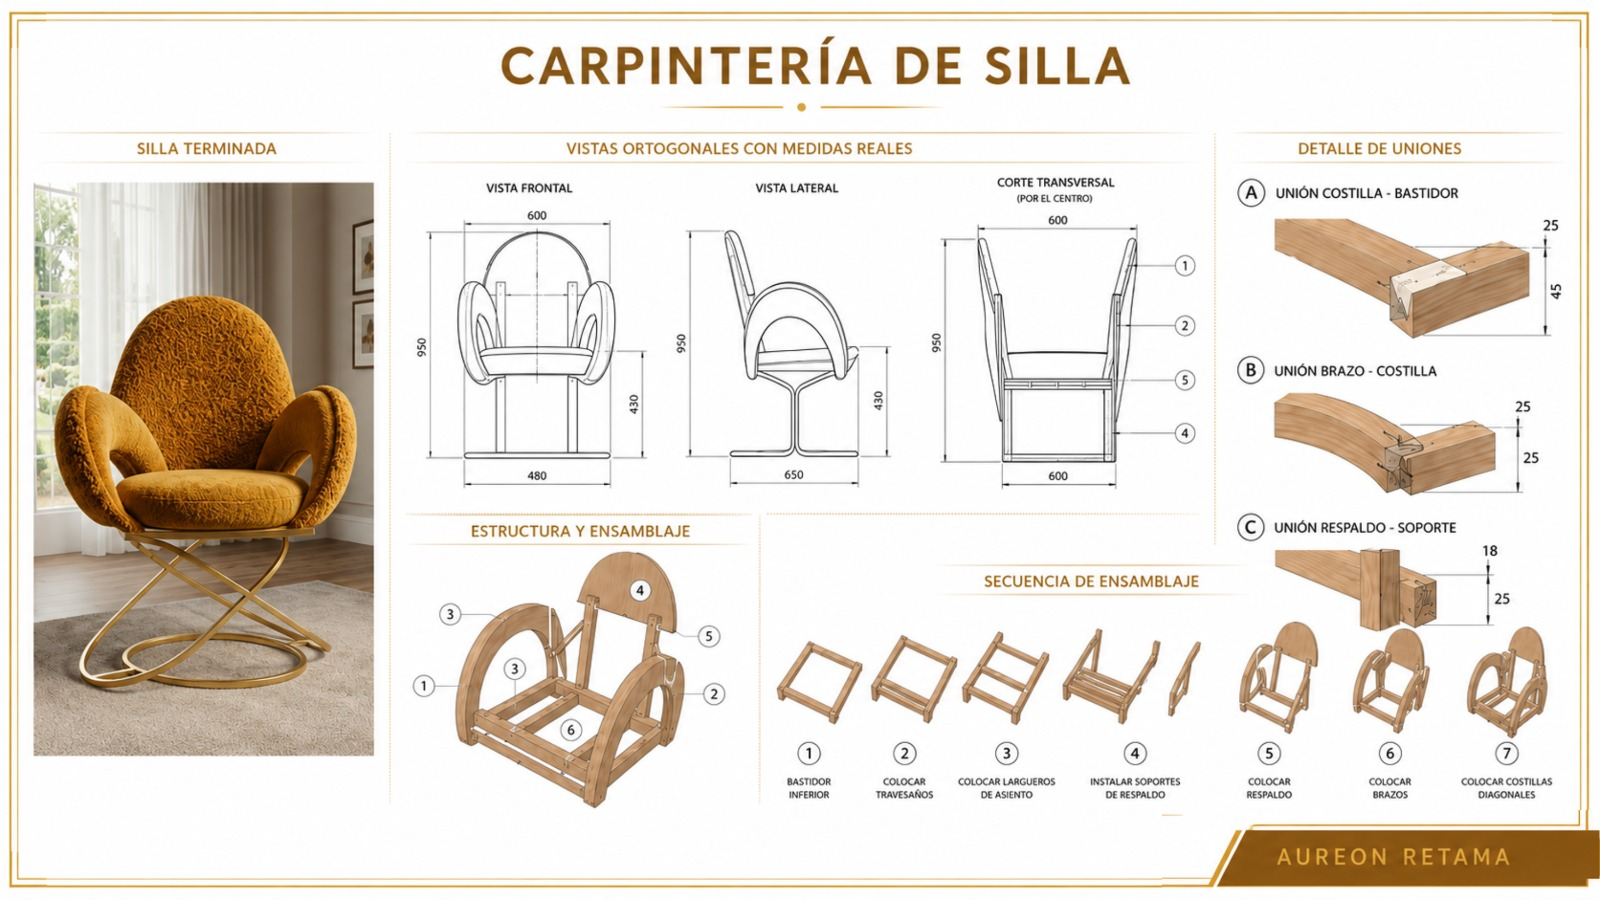
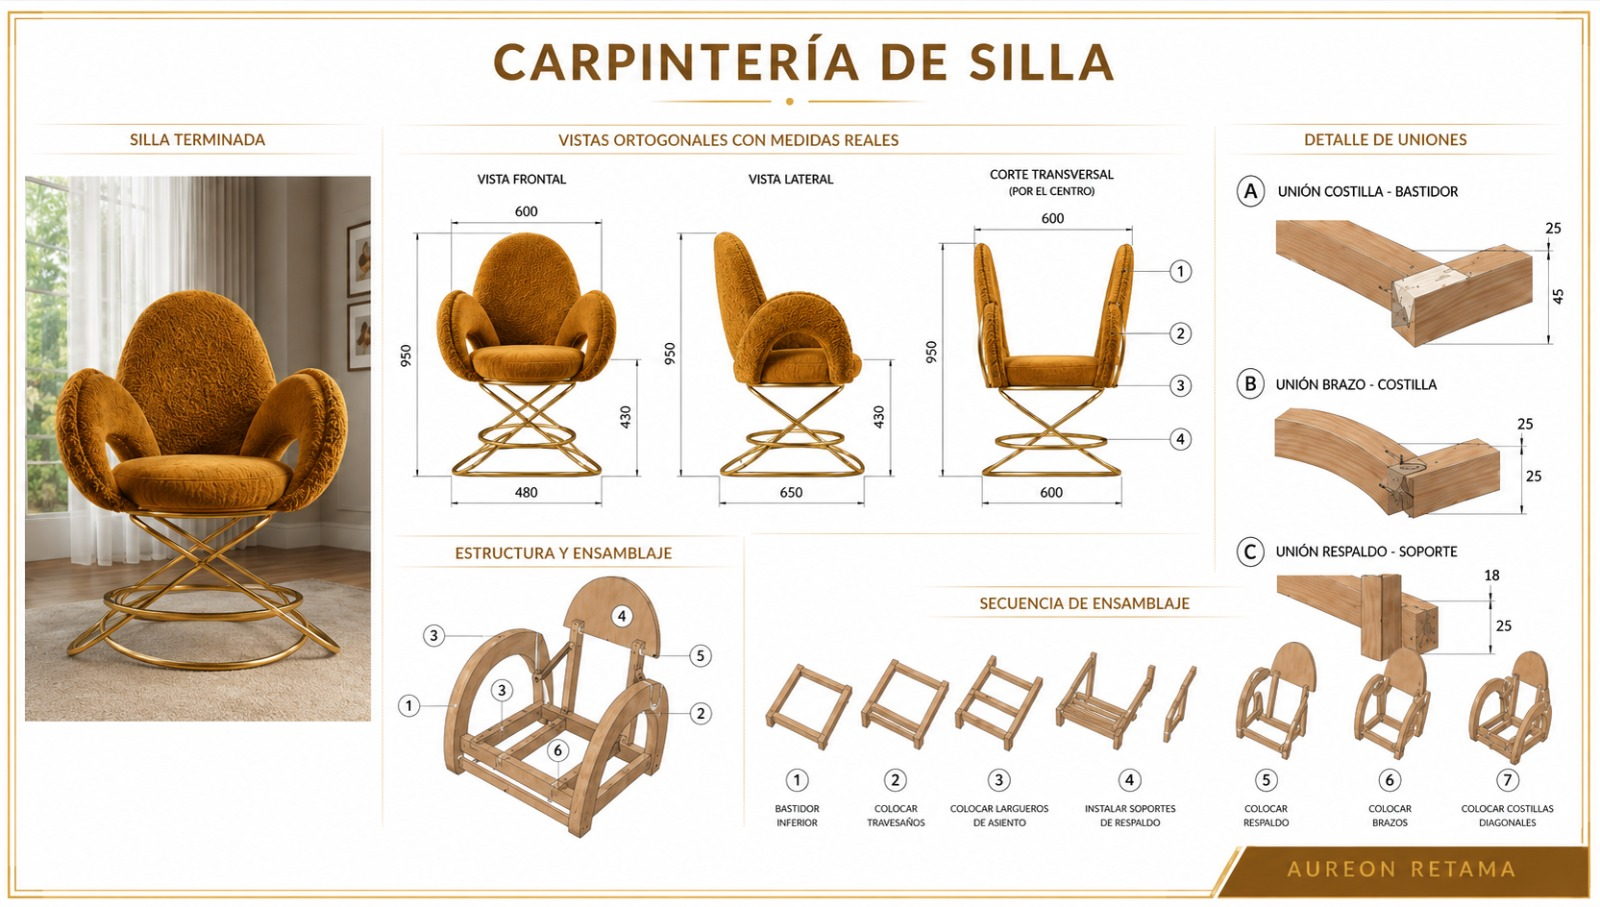
Add new assets: portada_2, silla, and extra silla-detalle images to their respective sections

Changed region(s): [[0.0, 0.0, 1.0, 0.9956], [0.75, 0.1244, 0.9375, 0.2489], [0.5938, 0.6222, 0.75, 0.6844]]

diff --git a/src/App.jsx b/src/App.jsx
@@ -37,6 +37,13 @@ import ambiente2Img from './assets/silla-detalle-2.jpeg';
 import ambiente3Img from './assets/silla-detalle-3.jpeg';
 import ambiente4Img from './assets/silla-detalle-4.jpeg';
 import ambiente5Img from './assets/silla-detalle-5.jpeg';
+import ambiente6Img from './assets/silla-detalle-6.jpeg';
+import ambiente7Img from './assets/silla-detalle-7.jpeg';
+import ambiente8Img from './assets/silla-detalle-8.jpeg';
+import ambiente9Img from './assets/silla-detalle-9.jpeg';
+
+import portada2Img from './assets/portada_2.jpeg';
+import sillaImg from './assets/silla.jpeg';
 import finalImg from './assets/final.jpg';
 import reflexionImg from './assets/reflexion.jpg';
 
@@ -174,6 +181,8 @@ function App() {
         
         <FadeIn><img src={bocetosImg} alt="Bocetos" className="slide-img slide-img-premium grayscale-img" /></FadeIn>
         
+        <FadeIn><img src={sillaImg} alt="Silla" className="slide-img-premium mt-50" style={{width: '100%', maxWidth: '800px', margin: '0 auto', display: 'block'}} /></FadeIn>
+        
         <div className="grid-2-cols mt-50">
           <FadeIn delay={0.1}><img src={maquetaFrente} alt="Vista Frontal" className="slide-img-premium" style={{width: '100%'}} /></FadeIn>
           <FadeIn delay={0.2}><img src={maquetaDetras} alt="Vista Posterior" className="slide-img-premium" style={{width: '100%'}} /></FadeIn>
@@ -260,16 +269,23 @@ function App() {
             modules={[EffectCoverflow, Autoplay, Pagination]}
             className="coverflow-swiper mt-50"
           >
-            <SwiperSlide><img src={ambiente1Img} alt="Ambiente 1" /></SwiperSlide>
-            <SwiperSlide><img src={ambiente2Img} alt="Ambiente 2" /></SwiperSlide>
-            <SwiperSlide><img src={ambiente3Img} alt="Ambiente 3" /></SwiperSlide>
-            <SwiperSlide><img src={ambiente4Img} alt="Ambiente 4" /></SwiperSlide>
-            <SwiperSlide><img src={ambiente5Img} alt="Ambiente 5" /></SwiperSlide>
+            <SwiperSlide><img src={ambiente1Img} alt="A1" /></SwiperSlide>
+            <SwiperSlide><img src={ambiente2Img} alt="A2" /></SwiperSlide>
+            <SwiperSlide><img src={ambiente3Img} alt="A3" /></SwiperSlide>
+            <SwiperSlide><img src={ambiente4Img} alt="A4" /></SwiperSlide>
+            <SwiperSlide><img src={ambiente5Img} alt="A5" /></SwiperSlide>
+            <SwiperSlide><img src={ambiente6Img} alt="A6" /></SwiperSlide>
+            <SwiperSlide><img src={ambiente7Img} alt="A7" /></SwiperSlide>
+            <SwiperSlide><img src={ambiente8Img} alt="A8" /></SwiperSlide>
+            <SwiperSlide><img src={ambiente9Img} alt="A9" /></SwiperSlide>
           </Swiper>
         </FadeIn>
 
         <div className="full-bleed-section">
           <FadeIn><img src={finalImg} alt="Resultado Final" /></FadeIn>
+        </div>
+        <div className="full-bleed-section">
+          <FadeIn><img src={portada2Img} alt="Portada Secundaria" /></FadeIn>
         </div>
         <div className="full-bleed-section">
           <FadeIn>